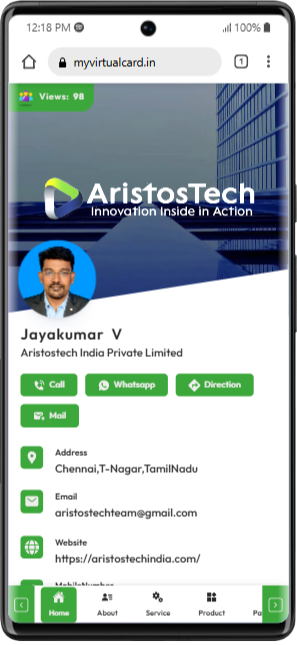
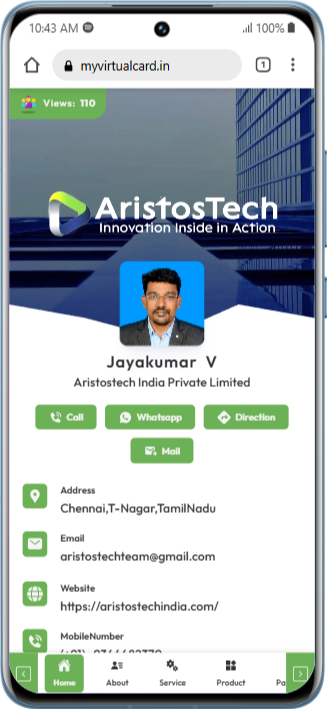
landing page some scroll added on mobile

diff --git a/client/src/Components/LandingPage/LandingPageNew.jsx b/client/src/Components/LandingPage/LandingPageNew.jsx
@@ -592,7 +592,7 @@ const LandingPage = () => {
   const handleScroll = debounce(() => {
     console.log("Scrolling...");
   }, 100);
-  
+
   useEffect(() => {
     window.addEventListener("scroll", handleScroll);
     return () => window.removeEventListener("scroll", handleScroll);
@@ -2118,13 +2118,17 @@ const LandingPage = () => {
         </section>
         {/* Static Template */}
         <section className="Session_2" ref={StaticVcardRef}>
-          <div className="session2_back_banner_image">
-            <Lottie
-              options={Session2BackOptions}
-              height={"100%"}
-              width={"100%"}
-            />
-          </div>
+          {width > 776 ? (
+            <div className="session2_back_banner_image">
+              <Lottie
+                options={Session2BackOptions}
+                height={"100%"}
+                width={"100%"}
+              />
+            </div>
+          ) : (
+            ""
+          )}
 
           <div className="right_side">
             <div className="slide2_title">

diff --git a/client/src/Components/LandingPage/LandingPageNew.scss b/client/src/Components/LandingPage/LandingPageNew.scss
@@ -1861,7 +1861,7 @@
             flex: 0.6;
             color: #fff;
             padding: 2rem;
-
+z-index: 2;
             h1 {
               font-size: 2.7rem;
               color: #fff;
@@ -2711,7 +2711,7 @@
       scale: 1;
       width: 100%;
       height: 100%;
-      opacity: 0.1;
+      opacity: 0.3;
 
       // transform: rotate(180deg);
       @media screen and (max-width: 700px) {
@@ -5678,7 +5678,8 @@
     }
   }
   @media screen and (max-width: 776px) {
-    scroll-snap-type: none;
+  
+    scroll-snap-type: y mandatory;
   }
   &::-webkit-scrollbar {
     display: none;

diff --git a/client/index.html b/client/index.html
@@ -15,6 +15,8 @@
       href="https://unpkg.com/boxicons@2.1.4/css/boxicons.min.css"
       rel="stylesheet"
     />
+    <!-- Uniicons -->
+    <link rel="stylesheet" href="https://unicons.iconscout.com/release/v4.0.8/css/line.css">
     <!-- Material Icon -->
     <link
       rel="stylesheet"
